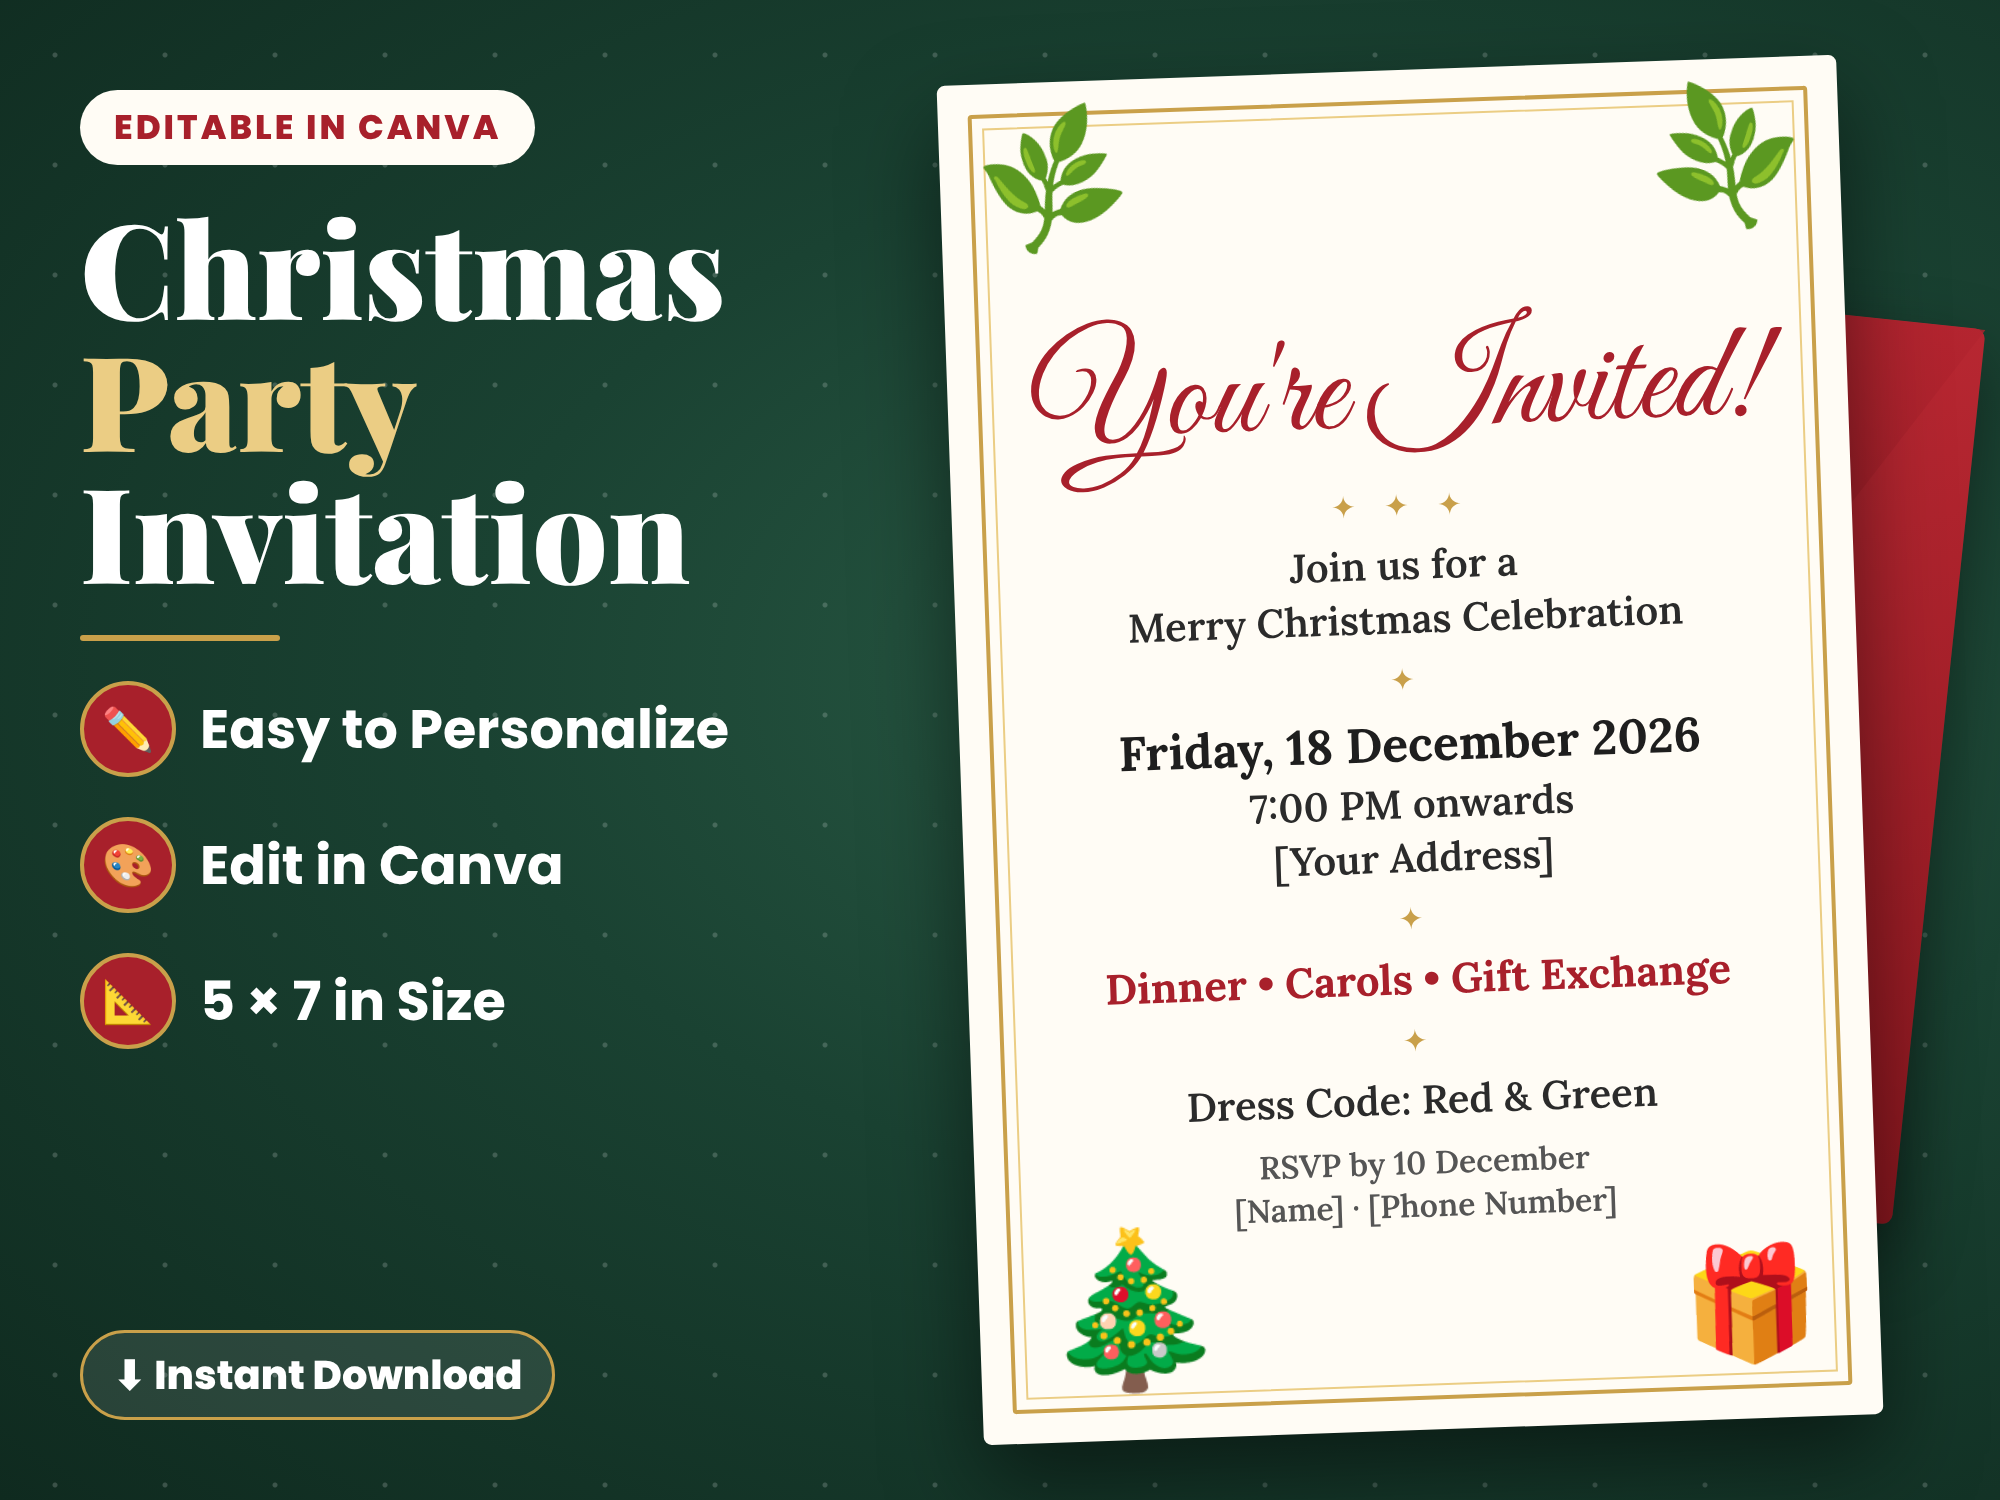
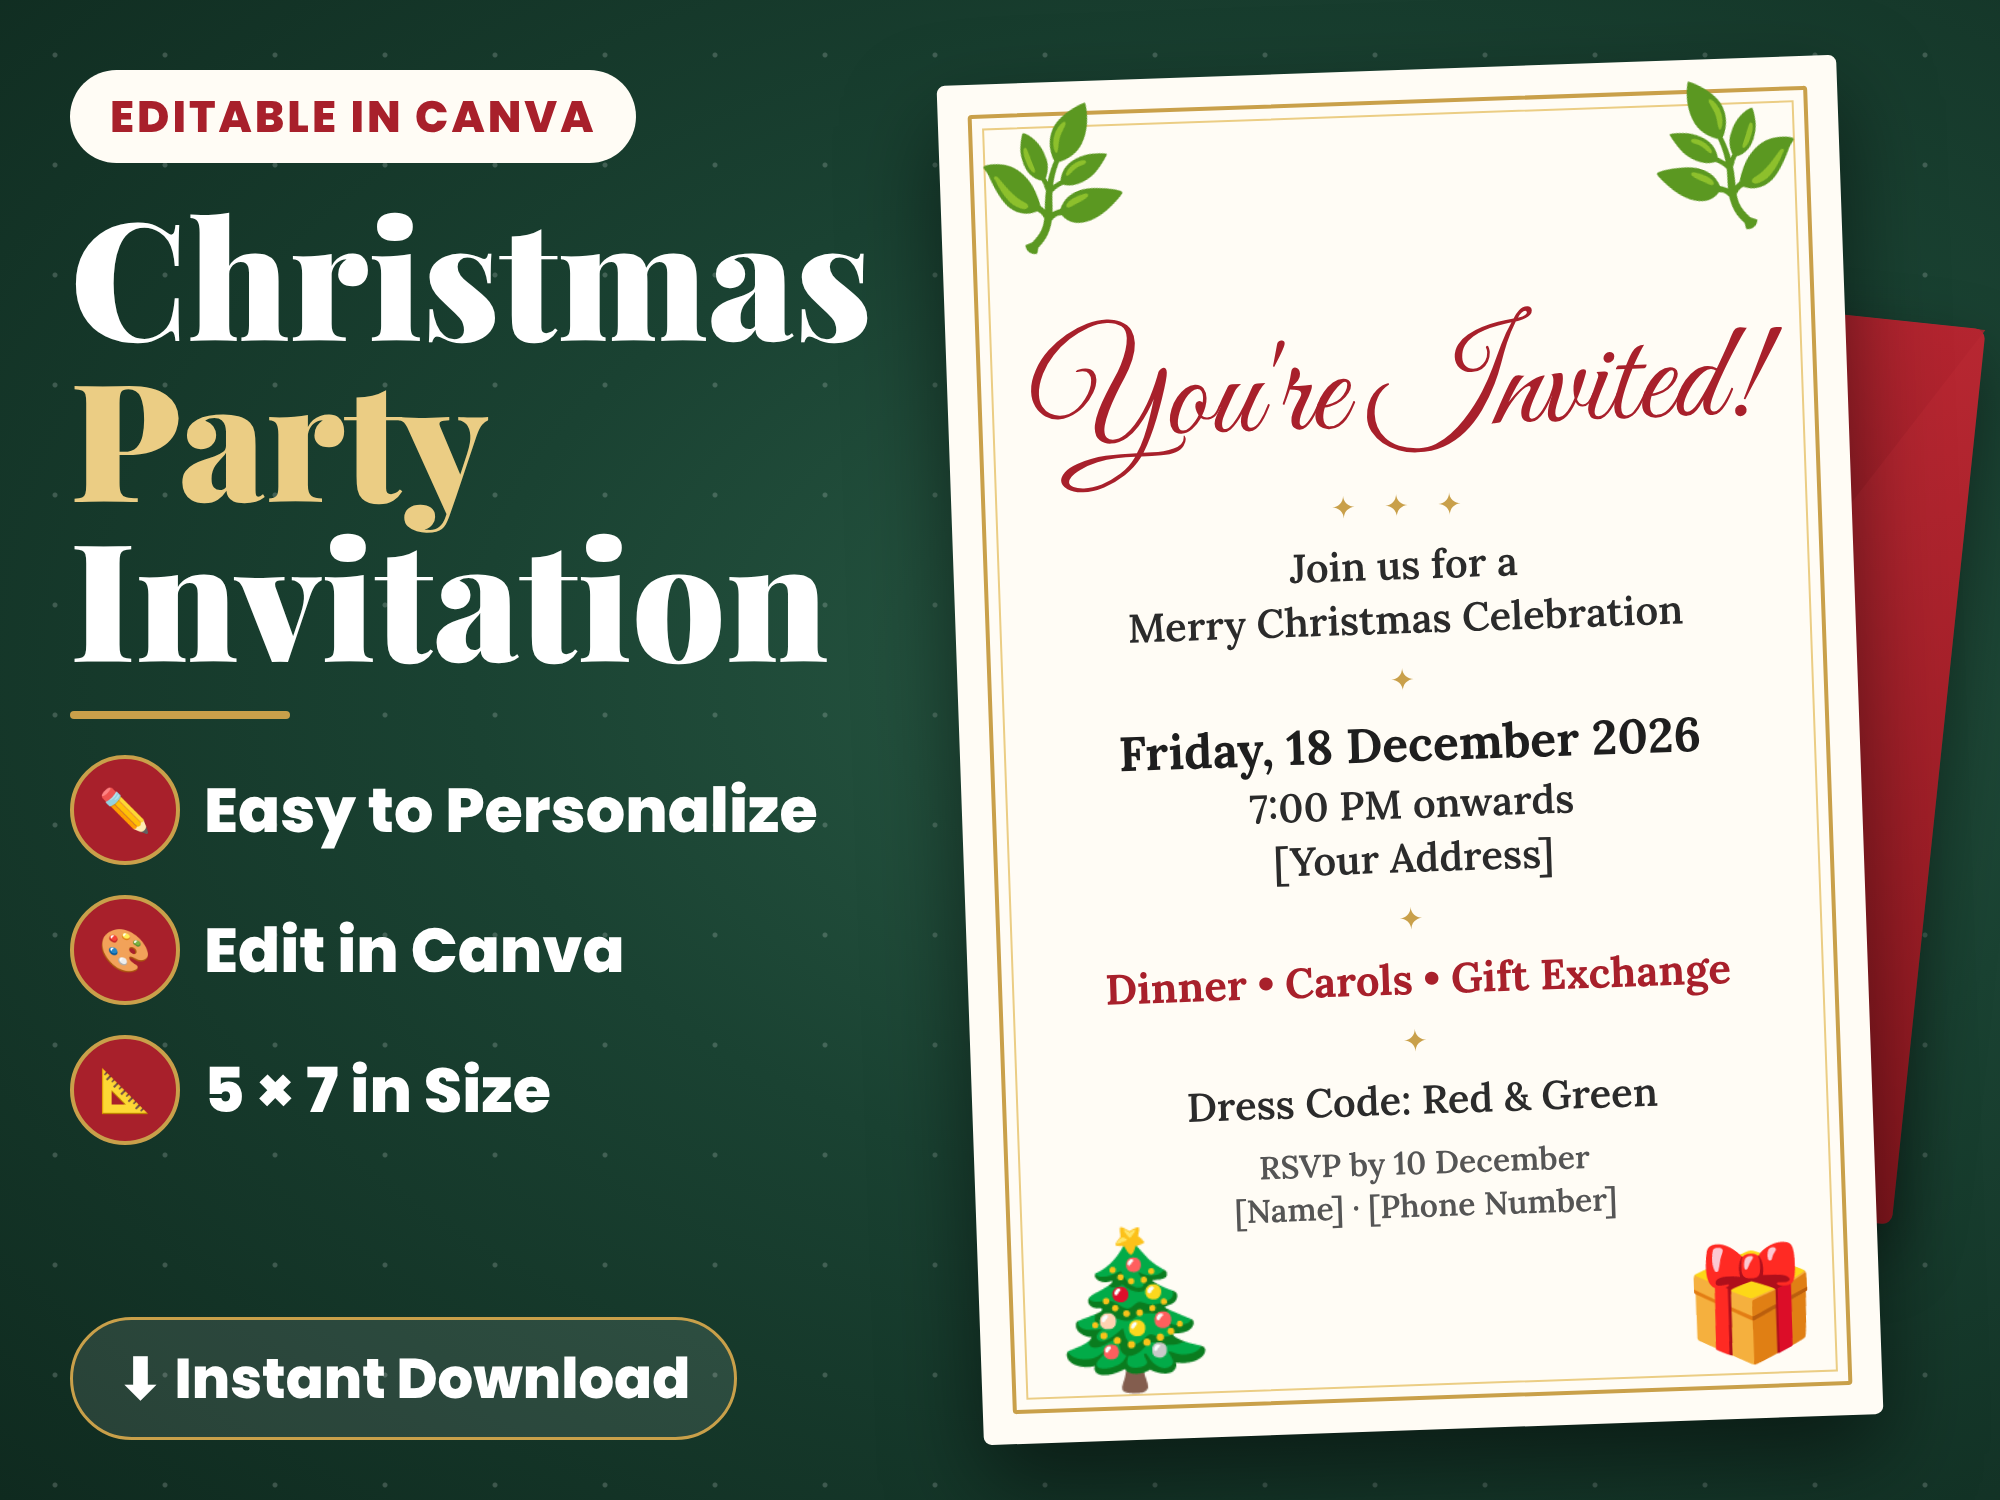
Christmas Invitation thumbnail: larger left-side text
Claude-Session: https://claude.ai/code/session_01JXSyMovszCbL9FMwkaUbGU

Changed region(s): [[0.031, 0.1227, 0.434, 0.7667], [0.031, 0.8587, 0.372, 0.9507], [0.031, 0.0307, 0.341, 0.1227]]

diff --git a/images/src/christmas-invitation-thumbnail.html b/images/src/christmas-invitation-thumbnail.html
@@ -7,16 +7,16 @@
 body{background:#777;font-family:Poppins,sans-serif}
 #thumb{width:2000px;height:1500px;position:relative;overflow:hidden;background:radial-gradient(ellipse at 65% 45%,#2A5C46 0%,#1A4232 45%,#0F2A1F 100%)}
 .snow{position:absolute;inset:0;background-image:radial-gradient(circle,rgba(255,255,255,.18) 2px,transparent 3px);background-size:110px 110px}
-.left{position:absolute;left:80px;top:90px;width:820px;color:#fff;z-index:3}
-.tag{display:inline-block;background:var(--cream);color:var(--red);font-weight:800;font-size:34px;letter-spacing:3px;padding:12px 34px;border-radius:999px}
-h1{font-family:'Playfair Display',serif;font-weight:900;font-size:132px;line-height:1;margin-top:34px}
+.left{position:absolute;left:70px;top:70px;width:860px;color:#fff;z-index:3}
+.tag{display:inline-block;background:var(--cream);color:var(--red);font-weight:800;font-size:44px;letter-spacing:3px;padding:14px 40px;border-radius:999px}
+h1{font-family:'Playfair Display',serif;font-weight:900;font-size:164px;line-height:.98;margin-top:30px}
 h1 span{display:block;color:var(--gold2)}
-.line{width:200px;height:6px;background:var(--gold);border-radius:4px;margin:40px 0}
-.feats{display:flex;flex-direction:column;gap:40px}
-.f{display:flex;align-items:center;gap:24px;font-weight:700;font-size:54px}
-.f em{font-style:normal;width:96px;height:96px;border-radius:50%;background:var(--red);border:4px solid var(--gold);display:grid;place-items:center;font-size:42px;flex:none}
-.strip{position:absolute;left:80px;bottom:80px;display:flex;gap:18px;z-index:3}
-.strip span{background:rgba(255,255,255,.1);border:3px solid var(--gold);color:#fff;font-weight:800;font-size:40px;padding:12px 30px;border-radius:999px}
+.line{width:220px;height:8px;background:var(--gold);border-radius:4px;margin:36px 0}
+.feats{display:flex;flex-direction:column;gap:30px}
+.f{display:flex;align-items:center;gap:24px;font-weight:800;font-size:62px}
+.f em{font-style:normal;width:110px;height:110px;border-radius:50%;background:var(--red);border:4px solid var(--gold);display:grid;place-items:center;font-size:42px;flex:none}
+.strip{position:absolute;left:70px;bottom:60px;display:flex;gap:18px;z-index:3}
+.strip span{background:rgba(255,255,255,.1);border:3px solid var(--gold);color:#fff;font-weight:800;font-size:56px;padding:16px 44px;border-radius:999px}
 /* envelope */
 .env{position:absolute;left:1420px;top:300px;width:520px;height:900px;background:linear-gradient(160deg,#C02A35,#8E1820);border-radius:10px;transform:rotate(6deg);box-shadow:0 30px 70px rgba(0,0,0,.45)}
 .env:after{content:"";position:absolute;left:0;right:0;top:0;height:420px;background:linear-gradient(200deg,#B3242F,#8A1820);clip-path:polygon(0 0,100% 0,50% 100%);opacity:.8}
